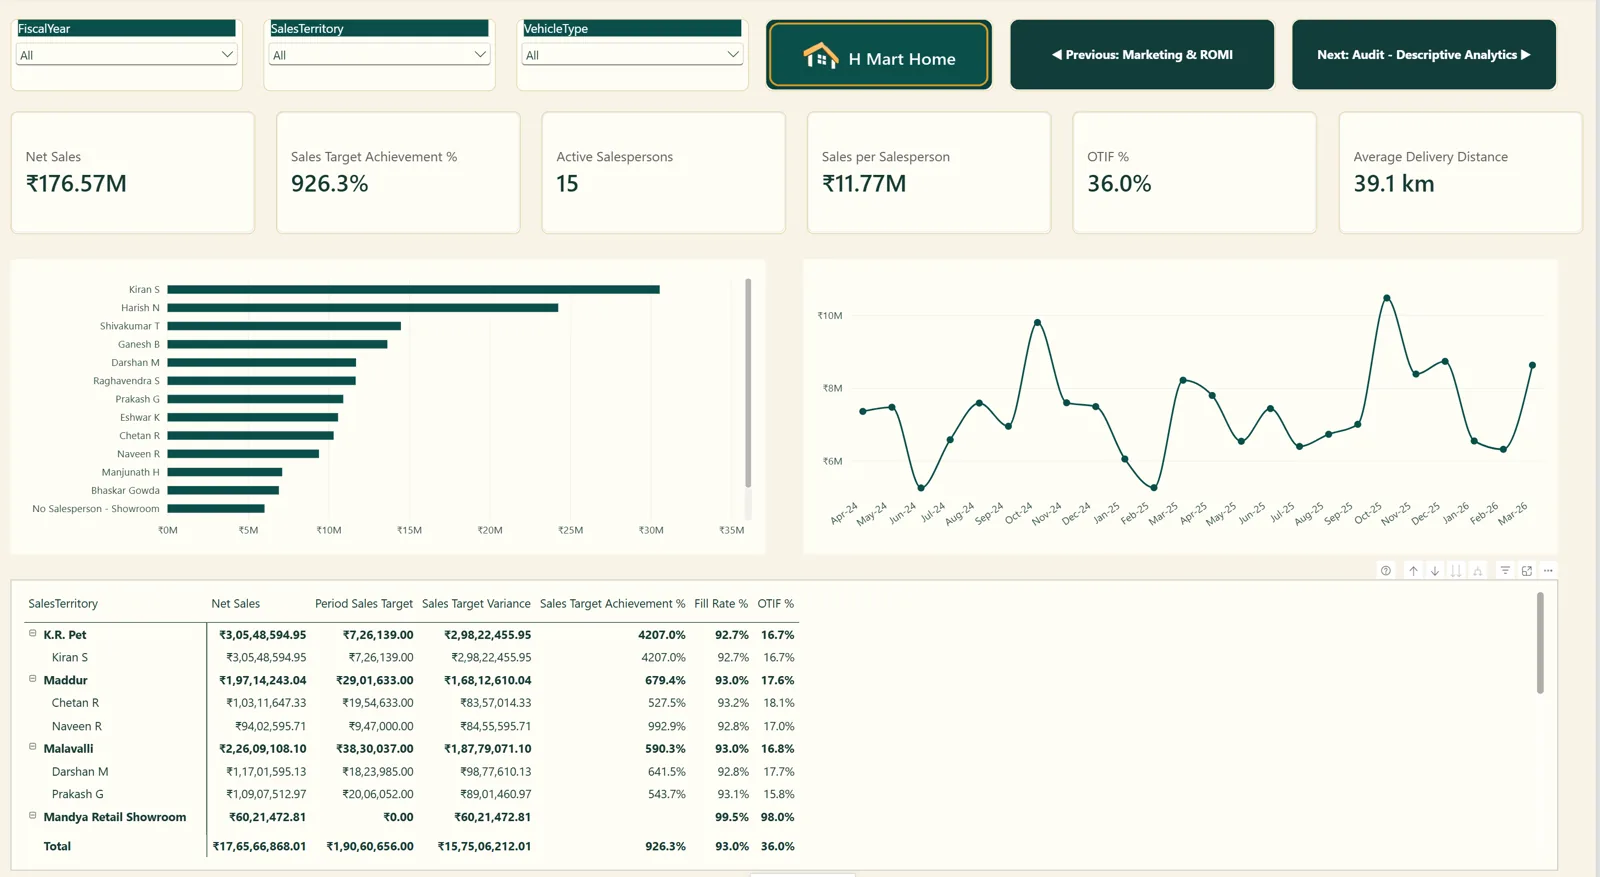
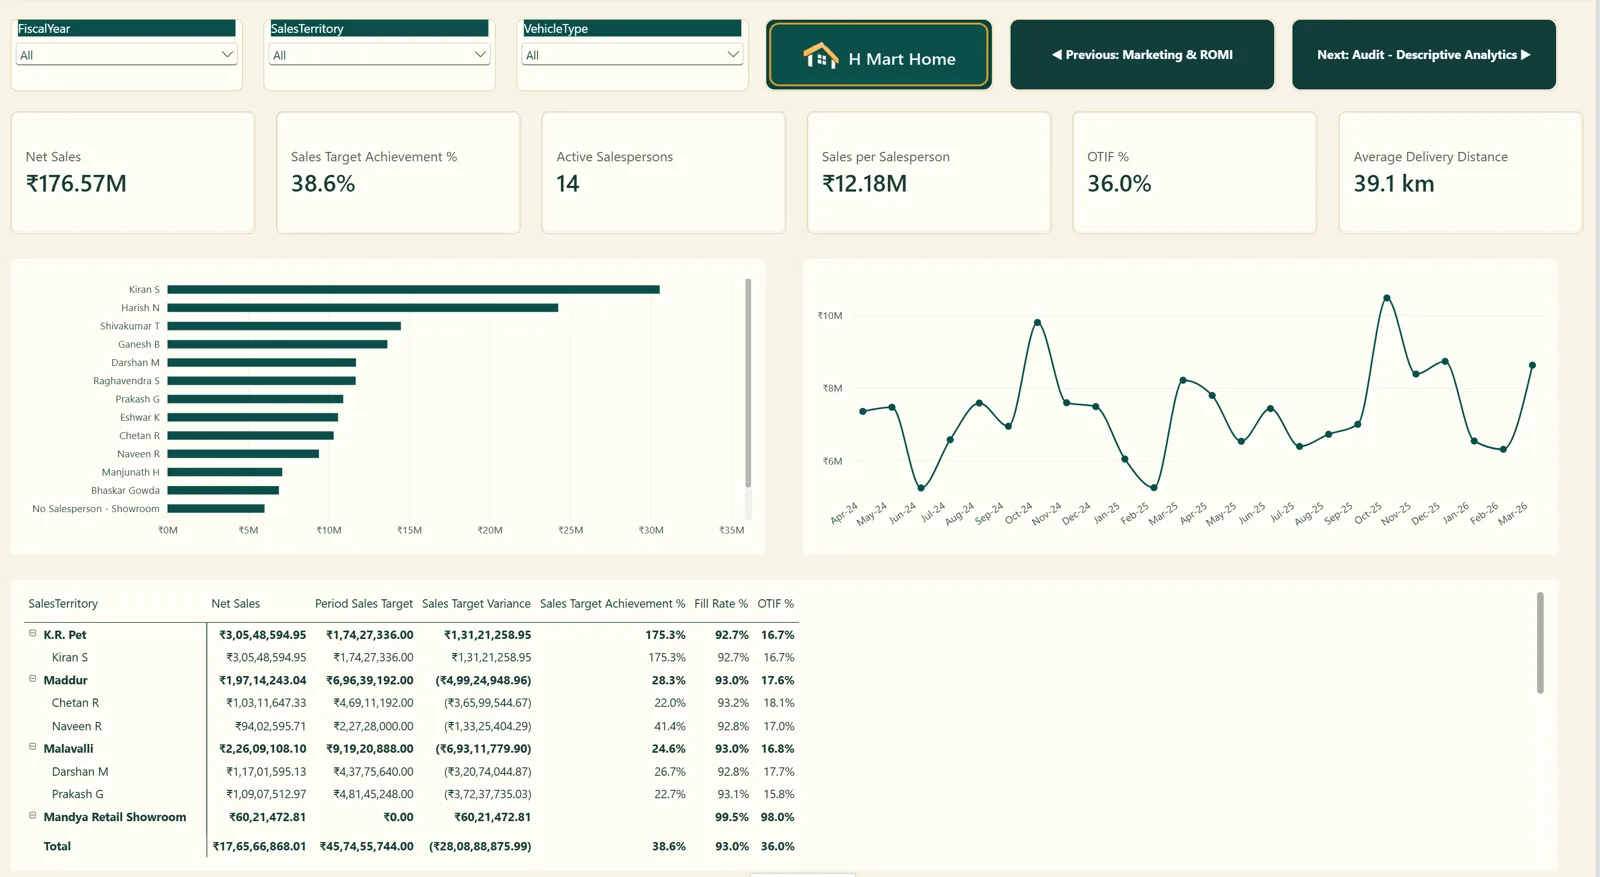
fix: update H Mart team page after correcting the target measures
Target achievement now reads 38.6% and active salespersons 14 in the
model, so the screenshot and text follow.

diff --git a/pages/HMartCaseStudy.html b/pages/HMartCaseStudy.html
@@ -154,11 +154,11 @@
 
       <article id="team" class="page-card srg-reveal">
         <h3>Sales Team &amp; Logistics</h3>
-        <figure><a href="../assets/images/hmart/team.webp" target="_blank" rel="noopener"><img src="../assets/images/hmart/team.webp" width="1600" height="877" loading="lazy" alt="Sales Team and Logistics page: cards including sales target achievement of 926.3 percent, 15 active salespersons and 39.1 kilometres average distance, with salesperson bars, a sales line and a territory table."></a></figure>
+        <figure><a href="../assets/images/hmart/team.webp" target="_blank" rel="noopener"><img src="../assets/images/hmart/team.webp" width="1600" height="877" loading="lazy" alt="Sales Team and Logistics page: cards including sales target achievement of 38.6 percent, 14 active salespersons and 39.1 kilometres average distance, with salesperson bars, a sales line and a territory table."></a></figure>
         <div class="reads">
           <div><h4>The question</h4><p>Is the team hitting its targets?</p></div>
-          <div><h4>The answer</h4><p>The card says 926.3%. Don’t believe it. With no date selected, the measure compares 24 months of sales with one month’s target. Select a year and it reads 37.4% in FY 2024-25 and 39.8% in FY 2025-26.</p></div>
-          <div><h4>The lesson</h4><p>Test every measure at the total and with no filters. “15 active salespersons” has the same trap: it counts the “No Salesperson - Showroom” row, so sales per salesperson divides by one too many.</p></div>
+          <div><h4>The answer</h4><p>No: 38.6% of target over the two years, 37.4% in FY 2024-25 and 39.8% in FY 2025-26. An early version of this card said 926.3%, because with no date selected it compared 24 months of sales with one month’s target.</p></div>
+          <div><h4>The lesson</h4><p>Test every measure at the total and with no filters. The active count had a similar flaw: it included the “No Salesperson - Showroom” row, so it read 15 instead of 14 and sales per salesperson was wrong.</p></div>
         </div>
       </article>
     </section>
@@ -209,7 +209,7 @@
       <ol class="closing-list">
         <li><strong>Pair numbers that argue.</strong> Sales with margin, ROAS with ROMI, on-time with OTIF.</li>
         <li><strong>Model the grain honestly.</strong> Sales lines, weekly stock and marketing spend are three facts, not one wide table.</li>
-        <li><strong>Distrust a number that flatters you.</strong> 926% was a filter-context problem. A correct-looking total can still be wrong.</li>
+        <li><strong>Distrust a number that flatters you.</strong> 926% was a filter-context bug that only showed at the total. It took one unfiltered check to catch it.</li>
         <li><strong>Then audit it.</strong> Shape, concentration, digits and preference take minutes once the functions exist.</li>
       </ol>
       <div class="links">
